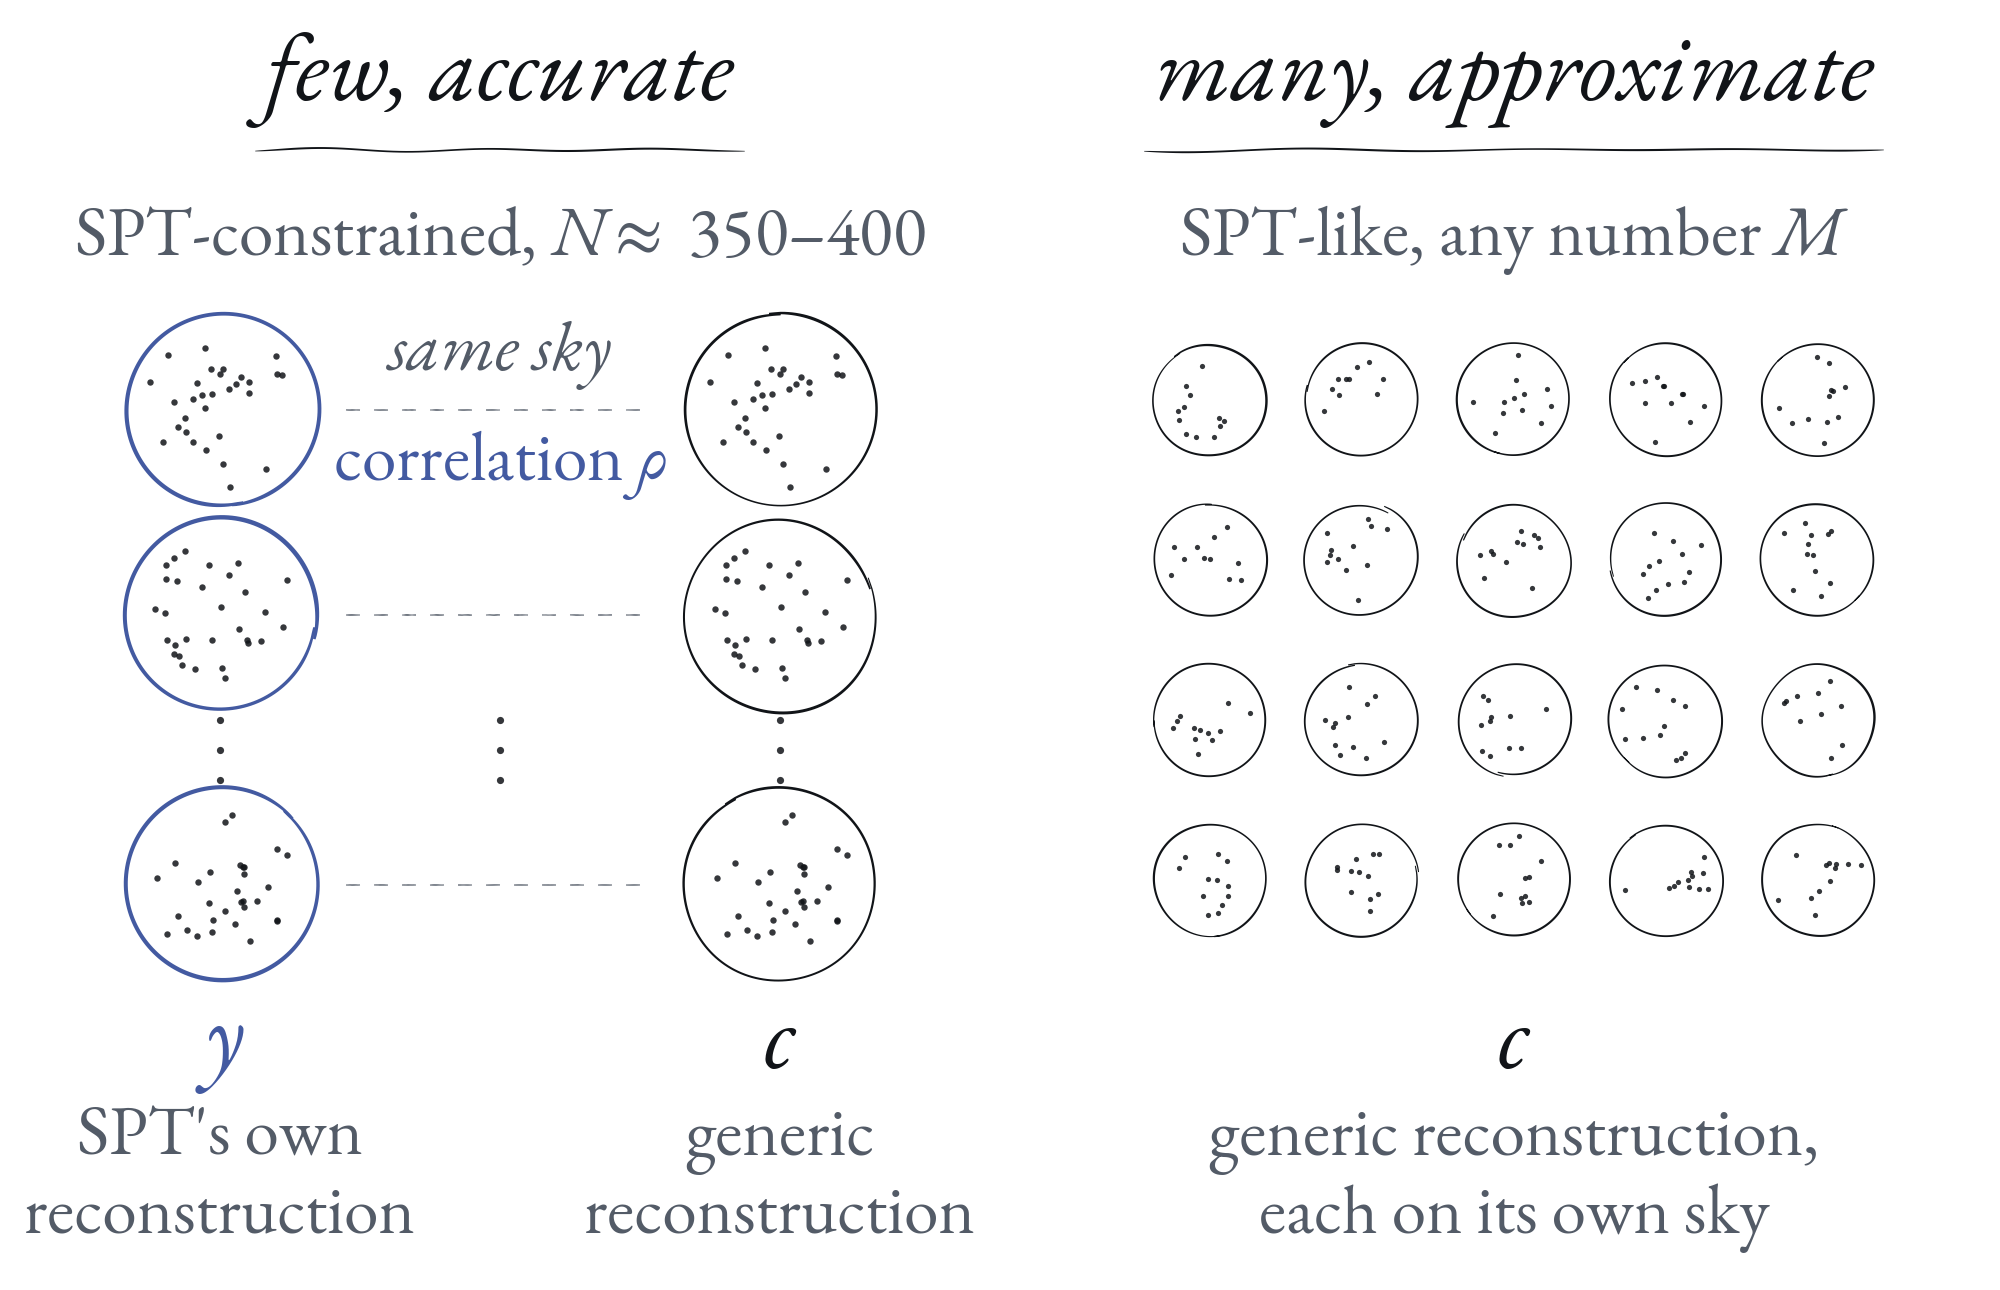
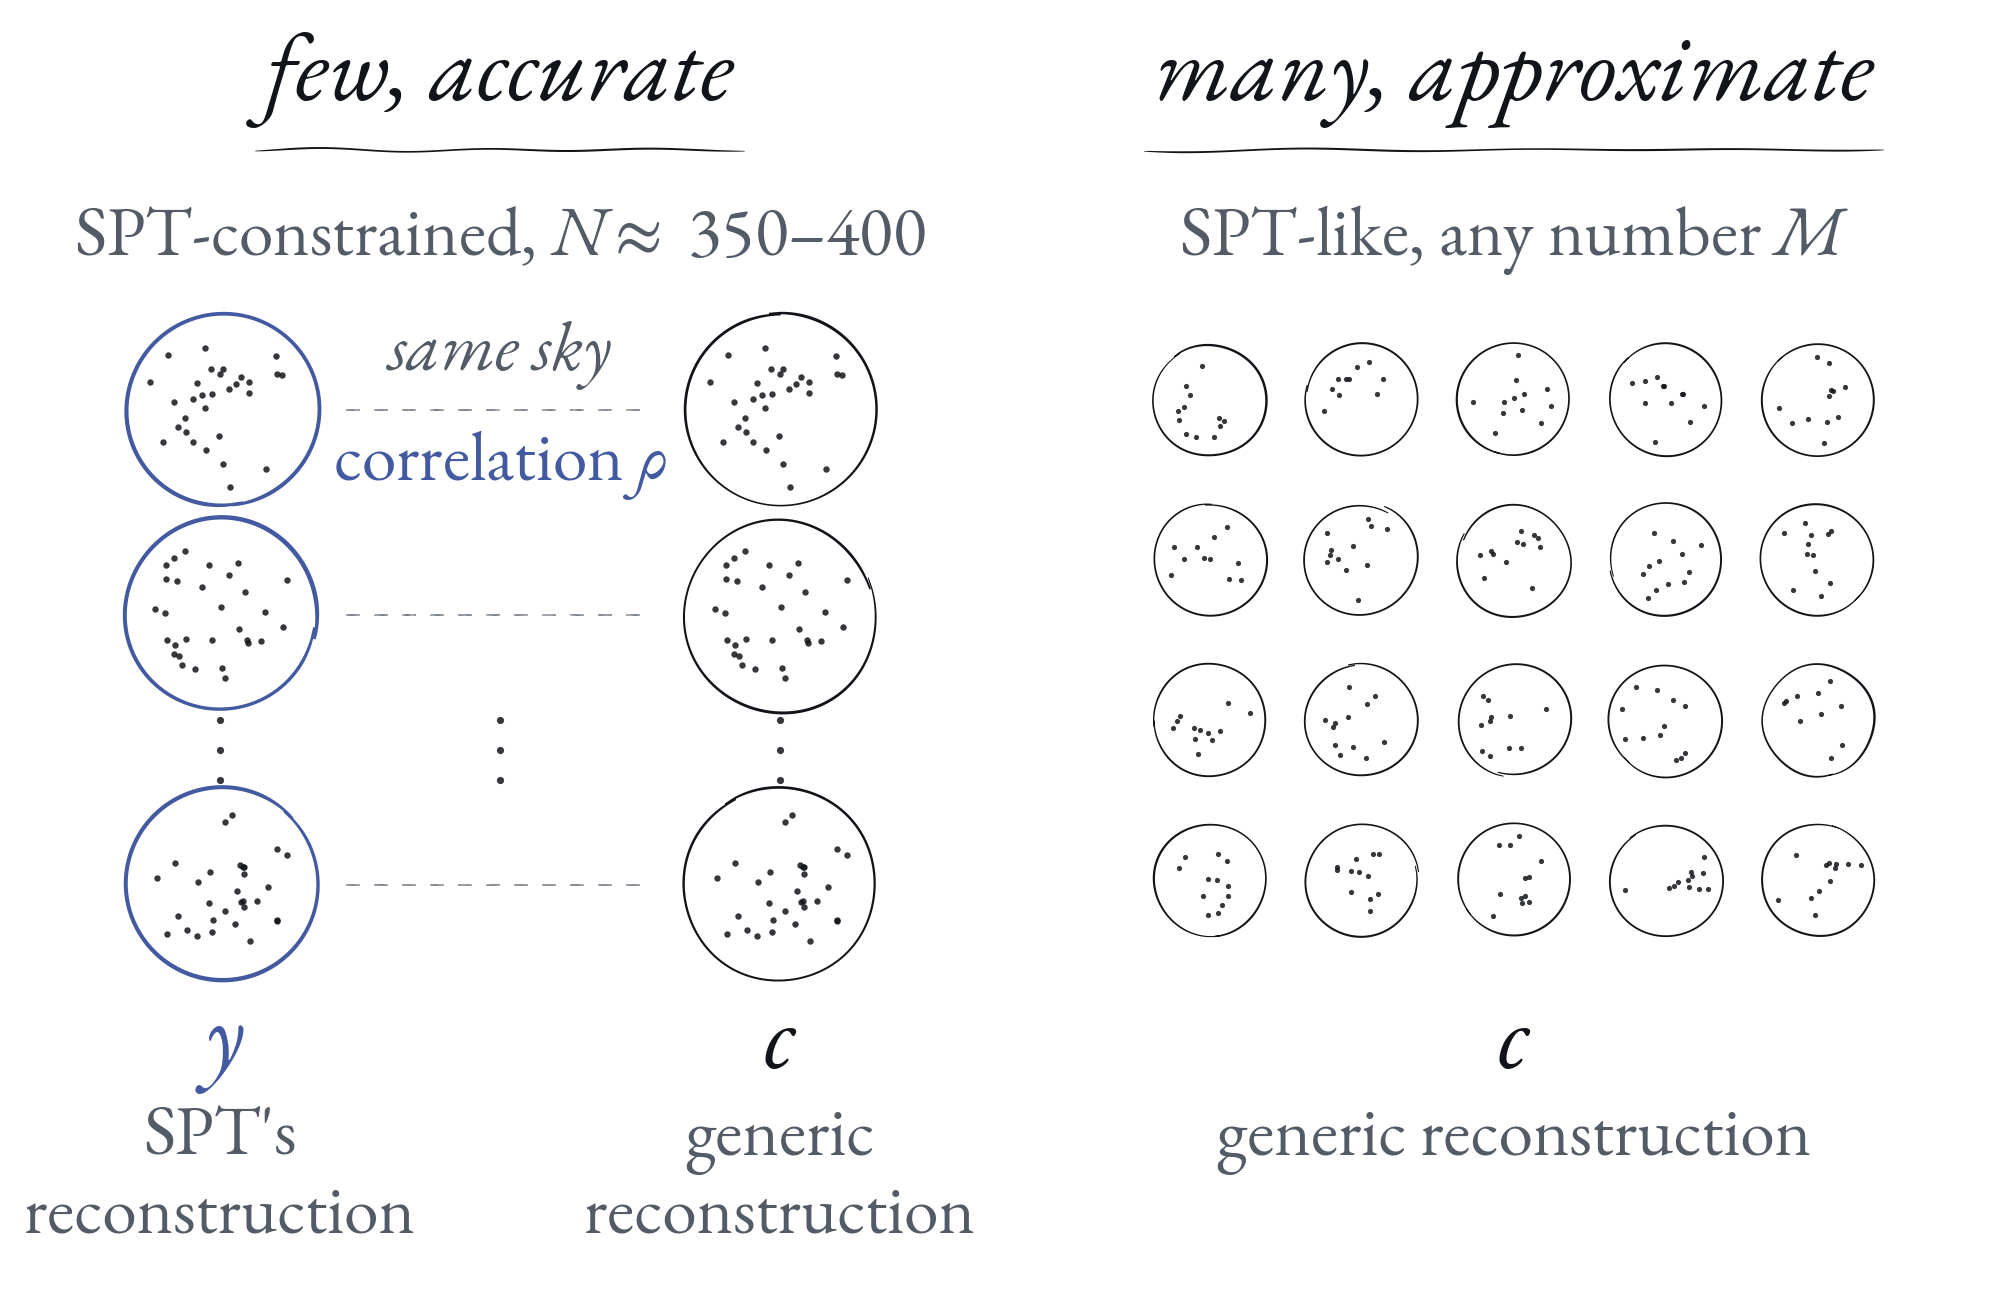
Paris SWG deck: control-variates slide gives β as a formula, general title
Claude-Session: https://claude.ai/code/session_01JK7o9HQFtTAoK55UCp43N6

Changed region(s): [[0.589, 0.8682, 0.899, 0.9302], [0.62, 0.9302, 0.899, 0.9612], [0.031, 0.8372, 0.186, 0.8992]]

diff --git a/2611_Paris_SWG/slides/cov-control-variates.html b/2611_Paris_SWG/slides/cov-control-variates.html
@@ -1,14 +1,14 @@
 <section data-layout="figure-text" data-split="60">
-  <h2>Control variates for the SPT covariance</h2>
+  <h2>Control variates for the covariance</h2>
   <figure>
-    <img src="images/paris26_sketch_control_variates.png" alt="Sketch of a control-variate (CARPool) covariance. Left, few and accurate: SPT-constrained mocks, N of about 350 to 400, each y made with SPT's own reconstruction and drawn beside a mock c of the same sky made with a generic reconstruction; rho is the correlation between the two members of a pair. Right, many and approximate: SPT-like mocks, any number M, the same generic reconstruction each on its own sky">
+    <img src="images/paris26_sketch_control_variates.png" alt="Sketch of a control-variate (CARPool) covariance. Left, few and accurate: SPT-constrained mocks, N of about 350 to 400, each y made with SPT's reconstruction and drawn beside a mock c of the same sky made with a generic reconstruction; rho is the correlation between the two members of a pair. Right, many and approximate: SPT-like mocks, any number M, the same generic reconstruction">
   </figure>
   <div class="text">
     <div class="eq">$$\hat\Sigma = \hat\Sigma_y^N - \beta\,\bigl(\hat\Sigma_c^N - \hat\Sigma_c^M\bigr)$$</div>
     <ul>
-      <li>$\beta$: how much of $c$'s scatter is subtracted from $y$</li>
+      <li>$\beta = \dfrac{\mathrm{cov}(y, c)}{\mathrm{var}(c)}$ per element</li>
       <li>Noise per element: $\dfrac{1-\rho^2}{N} + \dfrac{\rho^2}{M}$ in place of $\dfrac{1}{N}$</li>
-      <li>Unbiased for SPT's estimator</li>
+      <li>Unbiased if constrained mocks are unbiased</li>
     </ul>
   </div>
   <aside class="notes">

diff --git a/2611_Paris_SWG/make_cloe_sketches.py b/2611_Paris_SWG/make_cloe_sketches.py
@@ -558,7 +558,7 @@ def control_variates():
         for j in range(3):
             p.stipple(1, lambda n: np.array([[x, 570 - j * 30]]), r=3.6)
     p.text(xy, 242, "$y$", size=HEAD, italic=True, color=ACCENT)
-    p.text(xy, 150, "SPT's own", size=SMALL, color=MUTED)
+    p.text(xy, 150, "SPT's", size=SMALL, color=MUTED)
     p.text(xy, 72, "reconstruction", size=SMALL, color=MUTED)
     p.text(xc, 242, "$c$", size=HEAD, italic=True)
     p.text(xc, 150, "generic", size=SMALL, color=MUTED)
@@ -576,8 +576,7 @@ def control_variates():
             p.ring(x, y, r, w=WEIGHT * 0.55)
             p.stipple(len(q), lambda n: (x, y) + q * r, r=2.6)
     p.text(mx, 242, "$c$", size=HEAD, italic=True)
-    p.text(mx, 150, "generic reconstruction,", size=SMALL, color=MUTED)
-    p.text(mx, 72, "each on its own sky", size=SMALL, color=MUTED)
+    p.text(mx, 150, "generic reconstruction", size=SMALL, color=MUTED)
     p.save("paris26_sketch_control_variates.png")
 
 
